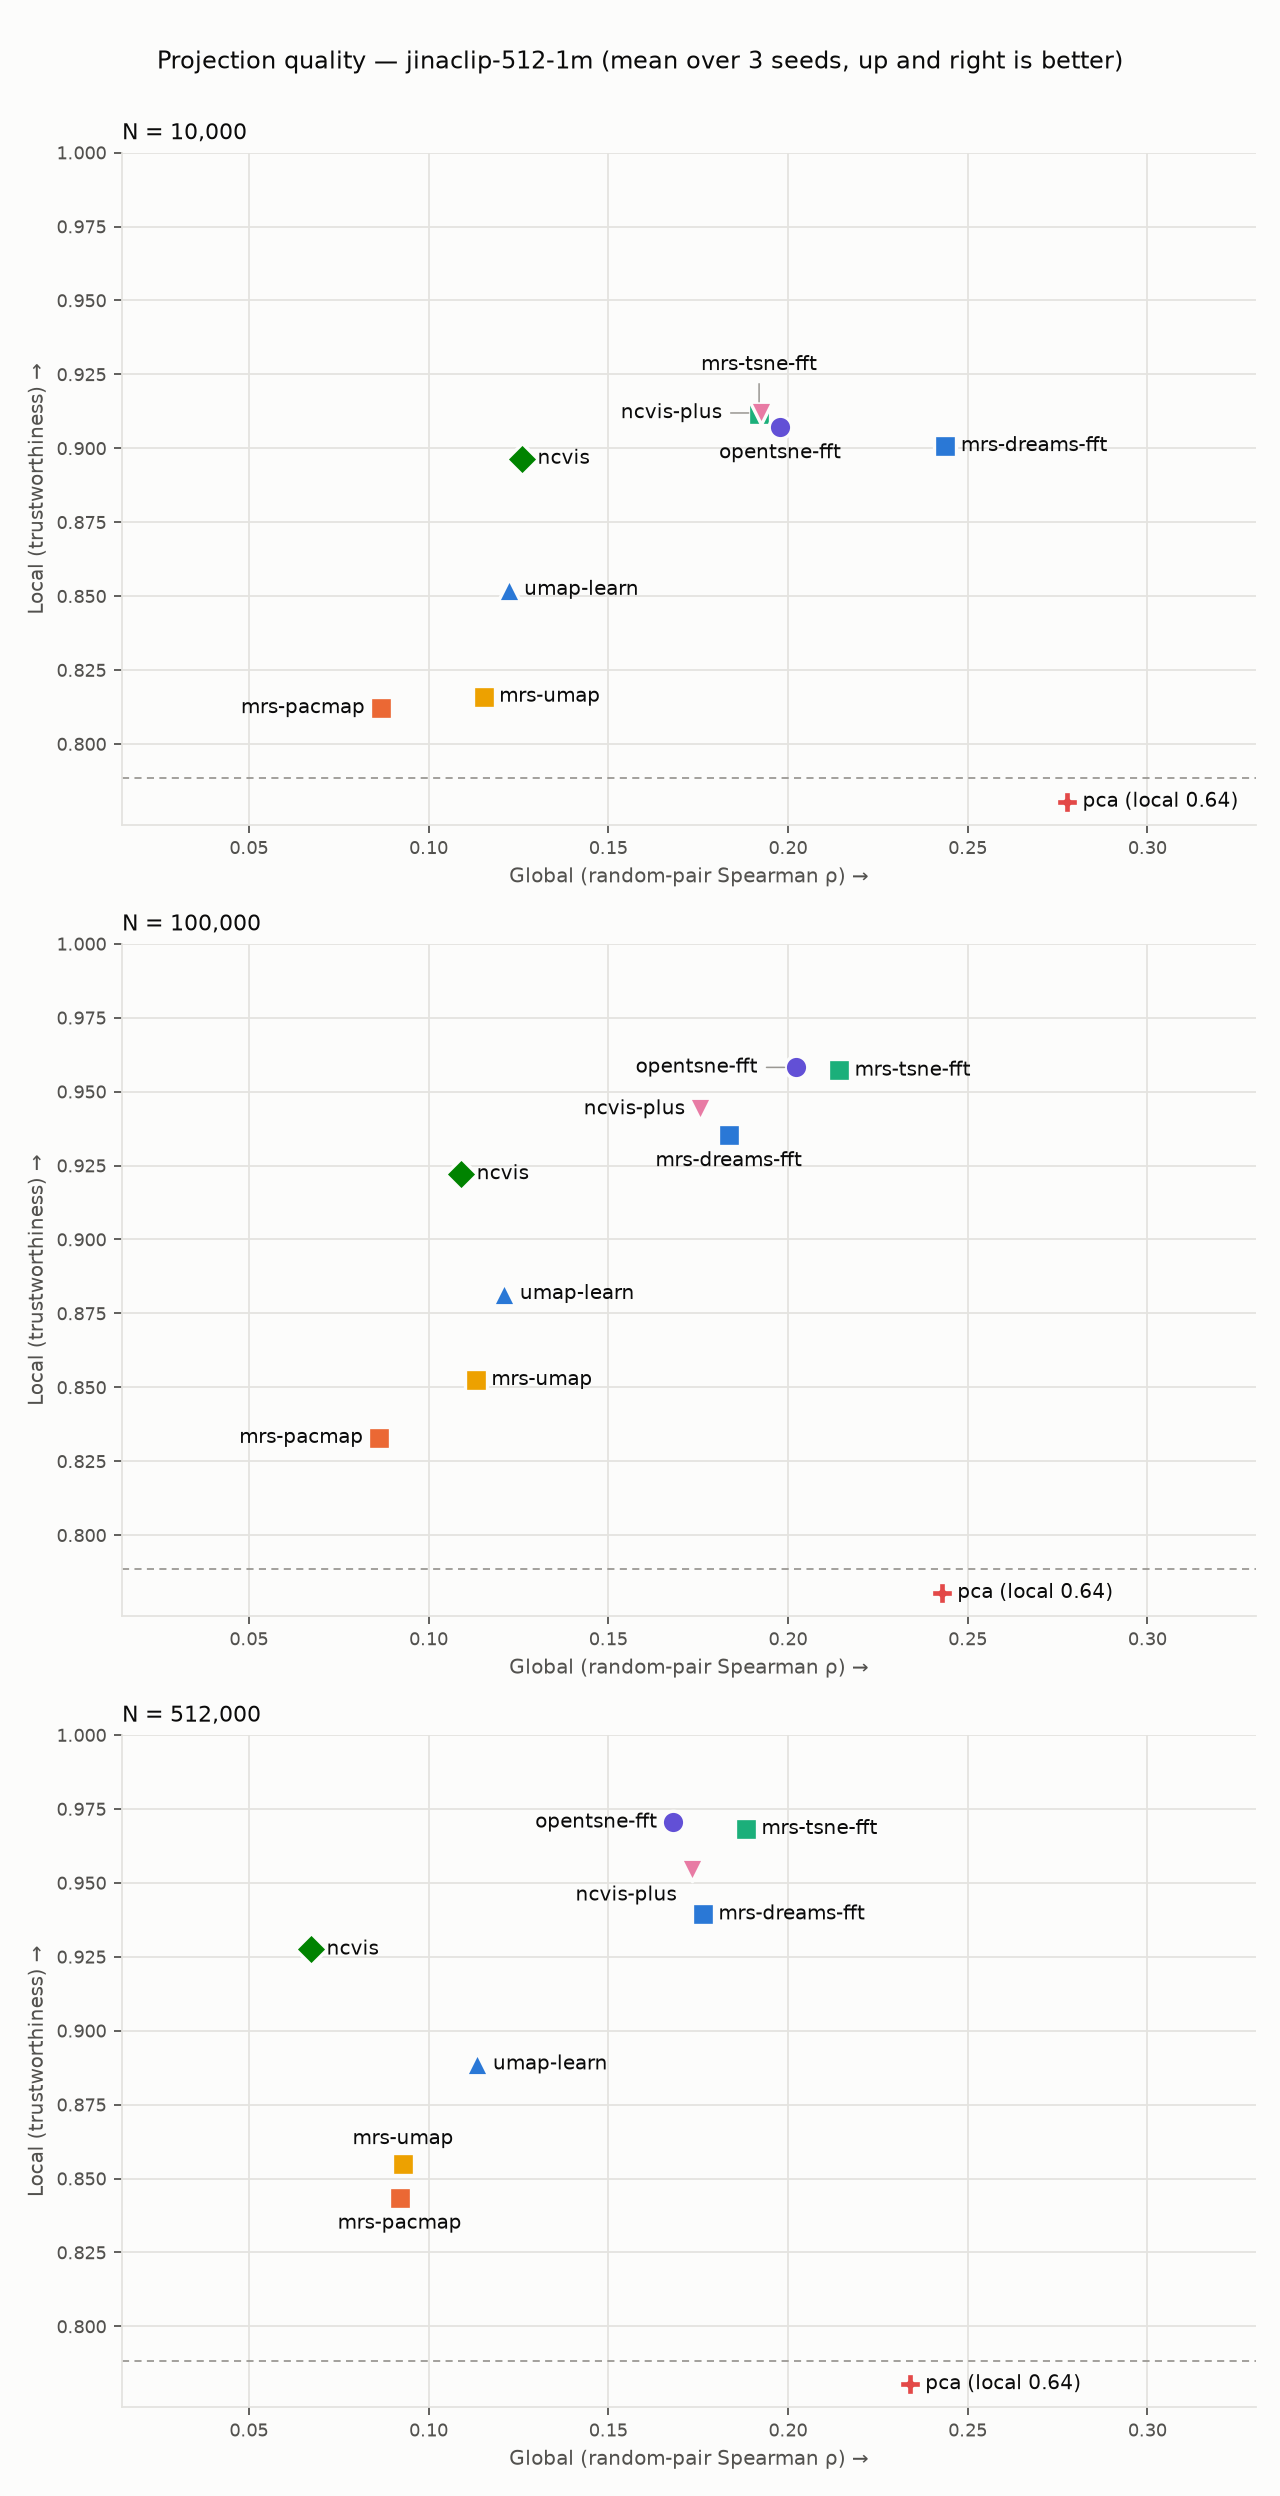
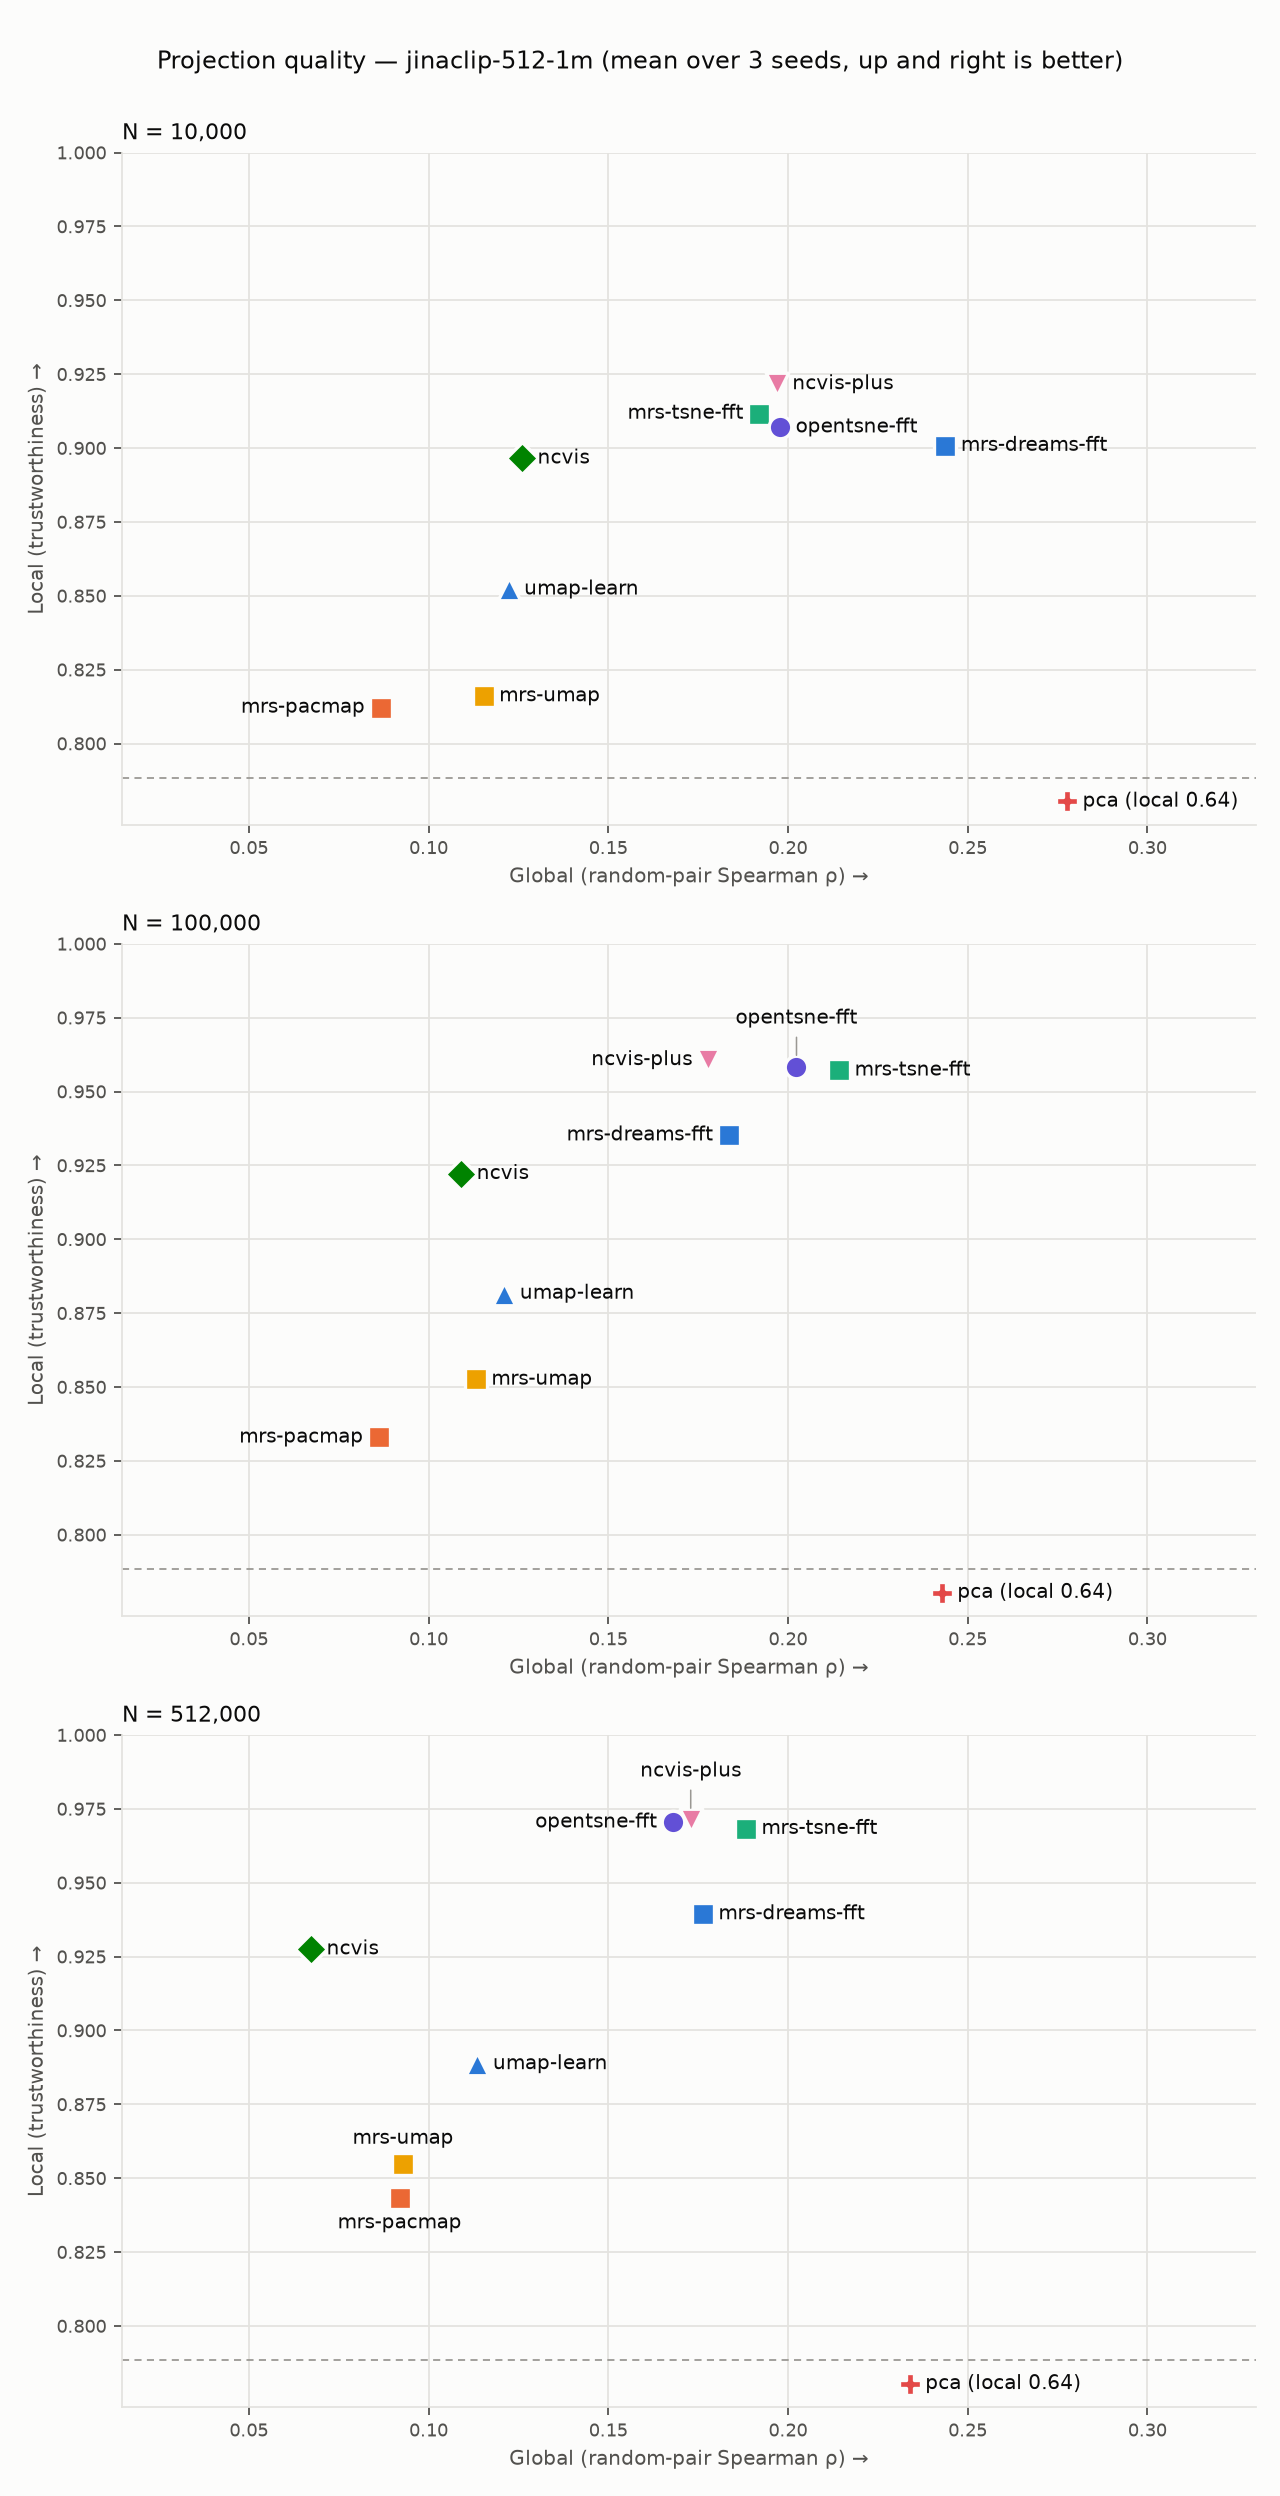
Scaling report: NCVis+ rerun with the local-noise final phase (2f77016)
Bump ncvis-plus to 2f77016. ncvis-plus-rinnd-default and -n20 rerun on jinaclip 10k/100k/512k,
36 threads, 3 seeds, same cached RINND graphs; other methods unchanged (their combined scores
shift because the score is min-max scaled across methods).
NCVis+ local 0.912 / 0.944 / 0.954 -> 0.922 / 0.961 / 0.971 at 10k / 100k / 512k, now the best
local score at every N (openTSNE 0.9705 at 512k); global 0.173 at 512k, 16.5 -> 17.5 s,
peak RAM 1.8 GB. SCALING.md, quality map, README table (local @512k to 4 decimals) and
findings updated.

Changed region(s): [[0.4375, 0.4062, 0.625, 0.4688], [0.5, 0.125, 0.6562, 0.1875], [0.5312, 0.7188, 0.5625, 0.75]]

diff --git a/README.md b/README.md
@@ -31,27 +31,28 @@ graph, default parameters), on `jinaclip-512-1m` subsampled to N = 10k, 100k and
 
 | method | combined 10k / 100k / 512k | local @512k | global @512k | fit time @512k | peak RAM @512k |
 |---|---|---|---|---|---|
-| mrs-tsne-fft | 0.77 / **0.91** / **0.86** | 0.968 | 0.188 | 73 s | 5.6 GB |
-| [ncvis-plus](https://github.com/SeanPedersen/ncvis-plus) | 0.78 / 0.76 / 0.79 | 0.954 | 0.173 | 16.5 s | 1.8 GB |
-| opentsne-fft | 0.78 / 0.87 / 0.80 | **0.971** | 0.168 | 242 s | 4.2 GB |
-| mrs-dreams-fft | **0.89** / 0.77 / 0.78 | 0.939 | 0.176 | 75 s | 5.4 GB |
-| umap-learn | 0.48 / 0.49 / 0.51 | 0.889 | 0.114 | 43 s | 2.3 GB |
-| pca | 0.50 / 0.50 / 0.50 | 0.644 | **0.234** | 1.4 s | 1.7 GB |
-| ncvis | 0.57 / 0.52 / 0.43 | 0.928 | 0.067 | 23 s | 1.8 GB |
-| mrs-umap | 0.39 / 0.42 / 0.40 | 0.855 | 0.093 | 18 s | 1.8 GB |
-| mrs-pacmap | 0.31 / 0.30 / 0.38 | 0.844 | 0.092 | 120 s | 8.6 GB |
+| mrs-tsne-fft | 0.76 / **0.90** / **0.86** | 0.9683 | 0.188 | 73 s | 5.6 GB |
+| [ncvis-plus](https://github.com/SeanPedersen/ncvis-plus) | 0.79 / 0.79 / 0.82 | **0.9712** | 0.173 | 17.5 s | 1.8 GB |
+| opentsne-fft | 0.76 / 0.87 / 0.80 | 0.9705 | 0.168 | 242 s | 4.2 GB |
+| mrs-dreams-fft | **0.87** / 0.77 / 0.78 | 0.9394 | 0.176 | 75 s | 5.4 GB |
+| umap-learn | 0.47 / 0.49 / 0.51 | 0.8887 | 0.114 | 43 s | 2.3 GB |
+| pca | 0.50 / 0.50 / 0.50 | 0.6443 | **0.234** | 1.4 s | 1.7 GB |
+| ncvis | 0.56 / 0.51 / 0.43 | 0.9275 | 0.067 | 23 s | 1.8 GB |
+| mrs-umap | 0.38 / 0.42 / 0.40 | 0.8548 | 0.093 | 18 s | 1.8 GB |
+| mrs-pacmap | 0.30 / 0.30 / 0.38 | 0.8435 | 0.092 | 120 s | 8.6 GB |
 
 **local** = mean trustworthiness (k = 5, 15, 30); **global** = Spearman ρ of 1M random pairs.
 **combined** = mean of local and global, each min-max scaled across these nine methods at that N
 (1 = best on both). It is relative: it ranks methods within one N, not across N. Seed sd ≤ 0.004
 local, ≤ 0.027 global.
 
-- **t-SNE is the best at both local and global structure, at 100k and 512k.** manifolds-rs
-  t-SNE matches openTSNE's local score, keeps more global structure, and is 3–15× faster.
-- **NCVis+ comes closest to t-SNE at a fraction of the cost.** NCVis+ is NCVis with PCA init,
-  retuned defaults and a faster kernel. At 512k it trails manifolds-rs t-SNE by 0.014 local
-  and 0.015 global, at 0.23× the time and a third of the memory. Stock NCVis falls
-  below PCA in combined score at 512k (global ρ 0.067).
+- **t-SNE keeps the most global structure at 100k and 512k.** manifolds-rs t-SNE matches
+  openTSNE's local score, keeps more global structure, and is 3–15× faster.
+- **NCVis+ has the best local structure at every N, at a fraction of the cost.** NCVis+ is
+  NCVis with PCA init, retuned defaults, a faster kernel and a local-noise final phase. It is
+  above openTSNE locally by 0.0025 at 100k and 0.0007 at 512k (seed sd 0.0002). At 512k it
+  trails manifolds-rs t-SNE by 0.015 global, at 0.24× the time and a third of the memory.
+  Stock NCVis falls below PCA in combined score at 512k (global ρ 0.067).
 - **DREAMS (t-SNE pulled towards PCA) only pays off at 10k.** There it has the best combined
   score: global 0.244 against t-SNE's 0.192, for 0.011 less local. At 100k and 512k it is below
   plain t-SNE on both axes, with the same 750-iteration schedule.
@@ -117,7 +118,7 @@ and [#1](../../issues/1).
 | `ncvis-hq`: HNSW M=16, efC=200, ef=64 (recall@15 ≈0.99) | ncvis (patched) | C++ |
 | `mrs-pacmap` | manifolds-rs | Rust |
 | `mrs-dreams-fft-rinnd-default`, `mrs-dreams-bh-rinnd-default`: DREAMS (t-SNE pulled towards the PCA layout) | manifolds-rs | Rust |
-| `ncvis-plus` (own RINND graph), `ncvis-plus-rinnd-default`, `ncvis-plus-n20-rinnd-default` (20 negatives per edge, not in the scaling report): [NCVis+](https://github.com/SeanPedersen/ncvis-plus), NCVis with PCA init, retuned defaults (incl. `min_dist` 0.001) and a faster kernel | ncvis-plus | C++ |
+| `ncvis-plus` (own RINND graph), `ncvis-plus-rinnd-default`, `ncvis-plus-n20-rinnd-default` (20 negatives per edge, not in the scaling report): [NCVis+](https://github.com/SeanPedersen/ncvis-plus), NCVis with PCA init, retuned defaults (incl. `min_dist` 0.001), a faster kernel and a local-noise final phase | ncvis-plus | C++ |
 | kNN-backend variants: `umap-learn-rinnd`, `opentsne-fft-nndescent`/`-exact`, `mrs-tsne-fft-nndescent`/`-hnsw` | as above | |
 | `-rinnd-default` / `-rinnd-fast` variants of `opentsne-fft`, `mrs-tsne-fft`, `mrs-tsne-bh`, `mrs-tsne-qd`, `umap-learn`, `mrs-umap`, `mrs-pacmap`, `ncvis` (shared RINND graph, default or tuned-fast schedule; NCVis via a patch) | as above + RINND (Rust) | |
 

diff --git a/results/scaling/SCALING.md b/results/scaling/SCALING.md
@@ -8,25 +8,25 @@
 
 | algorithm | combined | local (trust.) | global (pair ρ) | triplet | fit s | peak RAM GB |
 | --- | --- | --- | --- | --- | --- | --- |
-| mrs-dreams-fft-rinnd-default | 0.89 | 0.9008 ± 0.0013 | 0.244 ± 0.021 | 0.586 ± 0.004 | 2.2 | 0.5 |
-| opentsne-fft-rinnd-default | 0.78 | 0.9070 ± 0.0020 | 0.198 ± 0.021 | 0.568 ± 0.004 | 35.0 | 0.7 |
-| ncvis-plus-rinnd-default | 0.78 | 0.9119 ± 0.0009 | 0.192 ± 0.002 | 0.573 ± 0.000 | 1.0 | 0.4 |
-| mrs-tsne-fft-rinnd-default | 0.78 | 0.9117 ± 0.0011 | 0.192 ± 0.027 | 0.570 ± 0.005 | 2.4 | 0.6 |
-| ncvis-rinnd-default | 0.57 | 0.8965 ± 0.0018 | 0.126 ± 0.021 | 0.552 ± 0.005 | 0.5 | 0.2 |
+| mrs-dreams-fft-rinnd-default | 0.87 | 0.9008 ± 0.0013 | 0.244 ± 0.021 | 0.586 ± 0.004 | 2.2 | 0.5 |
+| ncvis-plus-rinnd-default | 0.79 | 0.9217 ± 0.0003 | 0.197 ± 0.001 | 0.574 ± 0.000 | 1.0 | 0.4 |
+| opentsne-fft-rinnd-default | 0.76 | 0.9070 ± 0.0020 | 0.198 ± 0.021 | 0.568 ± 0.004 | 35.0 | 0.7 |
+| mrs-tsne-fft-rinnd-default | 0.76 | 0.9117 ± 0.0011 | 0.192 ± 0.027 | 0.570 ± 0.005 | 2.4 | 0.6 |
+| ncvis-rinnd-default | 0.56 | 0.8965 ± 0.0018 | 0.126 ± 0.021 | 0.552 ± 0.005 | 0.5 | 0.2 |
 | pca | 0.50 | 0.6443 ± 0.0000 | 0.278 ± 0.000 | 0.601 ± 0.000 | 0.1 | 0.2 |
-| umap-learn-rinnd-default | 0.48 | 0.8522 ± 0.0031 | 0.122 ± 0.014 | 0.554 ± 0.003 | 1.8 | 0.5 |
-| mrs-umap-rinnd-default | 0.40 | 0.8160 ± 0.0041 | 0.115 ± 0.006 | 0.550 ± 0.003 | 0.5 | 0.1 |
-| mrs-pacmap-rinnd-default | 0.31 | 0.8122 ± 0.0023 | 0.087 ± 0.009 | 0.549 ± 0.002 | 3.5 | 0.5 |
+| umap-learn-rinnd-default | 0.47 | 0.8522 ± 0.0031 | 0.122 ± 0.014 | 0.554 ± 0.003 | 1.8 | 0.5 |
+| mrs-umap-rinnd-default | 0.38 | 0.8160 ± 0.0041 | 0.115 ± 0.006 | 0.550 ± 0.003 | 0.5 | 0.1 |
+| mrs-pacmap-rinnd-default | 0.30 | 0.8122 ± 0.0023 | 0.087 ± 0.009 | 0.549 ± 0.002 | 3.5 | 0.5 |
 
 ## N = 100,000
 
 | algorithm | combined | local (trust.) | global (pair ρ) | triplet | fit s | peak RAM GB |
 | --- | --- | --- | --- | --- | --- | --- |
-| mrs-tsne-fft-rinnd-default | 0.91 | 0.9572 ± 0.0006 | 0.214 ± 0.014 | 0.578 ± 0.004 | 15.4 | 1.6 |
+| mrs-tsne-fft-rinnd-default | 0.90 | 0.9572 ± 0.0006 | 0.214 ± 0.014 | 0.578 ± 0.004 | 15.4 | 1.6 |
 | opentsne-fft-rinnd-default | 0.87 | 0.9582 ± 0.0002 | 0.202 ± 0.005 | 0.574 ± 0.002 | 82.9 | 1.6 |
+| ncvis-plus-rinnd-default | 0.79 | 0.9607 ± 0.0002 | 0.178 ± 0.004 | 0.568 ± 0.001 | 4.0 | 0.7 |
 | mrs-dreams-fft-rinnd-default | 0.77 | 0.9352 ± 0.0010 | 0.184 ± 0.013 | 0.570 ± 0.006 | 15.6 | 1.5 |
-| ncvis-plus-rinnd-default | 0.76 | 0.9441 ± 0.0000 | 0.176 ± 0.002 | 0.567 ± 0.001 | 3.8 | 0.7 |
-| ncvis-rinnd-default | 0.52 | 0.9222 ± 0.0007 | 0.109 ± 0.022 | 0.546 ± 0.005 | 4.4 | 0.4 |
+| ncvis-rinnd-default | 0.51 | 0.9222 ± 0.0007 | 0.109 ± 0.022 | 0.546 ± 0.005 | 4.4 | 0.4 |
 | pca | 0.50 | 0.6442 ± 0.0000 | 0.243 ± 0.000 | 0.597 ± 0.000 | 0.4 | 0.5 |
 | umap-learn-rinnd-default | 0.49 | 0.8816 ± 0.0003 | 0.121 ± 0.009 | 0.551 ± 0.001 | 7.3 | 0.8 |
 | mrs-umap-rinnd-default | 0.42 | 0.8525 ± 0.0010 | 0.113 ± 0.015 | 0.549 ± 0.004 | 3.3 | 0.4 |
@@ -37,8 +37,8 @@
 | algorithm | combined | local (trust.) | global (pair ρ) | triplet | fit s | peak RAM GB |
 | --- | --- | --- | --- | --- | --- | --- |
 | mrs-tsne-fft-rinnd-default | 0.86 | 0.9683 ± 0.0006 | 0.188 ± 0.018 | 0.569 ± 0.005 | 73.2 | 5.6 |
+| ncvis-plus-rinnd-default | 0.82 | 0.9712 ± 0.0002 | 0.173 ± 0.003 | 0.565 ± 0.001 | 17.5 | 1.8 |
 | opentsne-fft-rinnd-default | 0.80 | 0.9705 ± 0.0002 | 0.168 ± 0.003 | 0.564 ± 0.001 | 241.8 | 4.2 |
-| ncvis-plus-rinnd-default | 0.79 | 0.9544 ± 0.0003 | 0.173 ± 0.002 | 0.565 ± 0.001 | 16.5 | 1.8 |
 | mrs-dreams-fft-rinnd-default | 0.78 | 0.9394 ± 0.0015 | 0.176 ± 0.008 | 0.568 ± 0.003 | 74.9 | 5.4 |
 | umap-learn-rinnd-default | 0.51 | 0.8887 ± 0.0021 | 0.114 ± 0.010 | 0.549 ± 0.003 | 43.3 | 2.3 |
 | pca | 0.50 | 0.6443 ± 0.0000 | 0.234 ± 0.000 | 0.595 ± 0.000 | 1.4 | 1.7 |

diff --git a/CLAUDE.md b/CLAUDE.md
@@ -45,5 +45,5 @@ It is all Python (3.12, uv). Rust and C++ libraries come in through their Python
 - manifolds-rs defaults to `min_dist=0.5`; the adapter sets 0.1 to match umap-learn.
 - Never run timed sweeps concurrently (including evaluation). They share the CPU and distort the timings.
 - `data/`, `results/` and `results-*/` are gitignored, except the tracked summaries in `results/`, `results/curves/`, `results/scaling/` and `results/tsne-approx/` (copy of `results-tsne750/` on hartmut: manifolds-rs BH / qd / FFT, own kNN vs RINND, 2026-11-17) (README figures link there).
-- The scaling run (2026-11-17, hartmut, `results-scaling/` there and locally) is summarised in the README; `results-scaling-fast/` holds the aborted fast-schedule attempt. Its `ncvis-plus*` records were rerun at ncvis-plus 584c3a3 (block-of-8 kernel) in `~/experiments/projection-benchmark-fz8-20261117/results-scaling/` on hartmut (a copy; other methods unchanged), which is what `results/scaling/` now holds. End-to-end NCVis+ times at 512k jitter by ~±10% between runs (one of three seeds ~2 s slower, not seed-bound); the layout kernel alone does not.
+- The scaling run (2026-11-17, hartmut, `results-scaling/` there and locally) is summarised in the README; `results-scaling-fast/` holds the aborted fast-schedule attempt. Its `ncvis-plus*` records were rerun at ncvis-plus 2f77016 (local-noise final phase) in `~/experiments/projection-benchmark-local-20261118/results-scaling/` on hartmut (a copy of the 584c3a3 rerun with the old `ncvis-plus*` records dropped; other methods unchanged), which is what `results/scaling/` now holds. drbench skips runs already in `runs.jsonl`, so a rerun of a new ncvis-plus rev needs those records removed first. End-to-end NCVis+ times at 512k jitter by ~±10% between runs (one of three seeds ~2 s slower, not seed-bound); the layout kernel alone does not.
 - Never `pkill -f` over ssh: the pattern matches the ssh command itself. Kill by PID.
